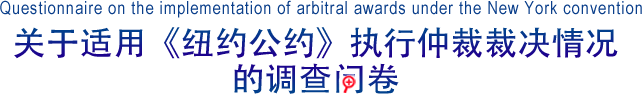
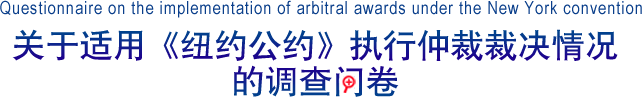
适配ie9

diff --git a/src/style.scss b/src/style.scss
@@ -236,7 +236,7 @@ img {
                   position: absolute;
                   width: 40px;
                   height: 40px;
-                  border: 1px solid #000000;
+                  border: 2px solid #000000;
                   border-radius: 50%;
                   right: -60px;
                   top: 50%;
@@ -287,7 +287,7 @@ img {
                 margin-bottom: 25px;
                 position: relative;
                 &:before{
-                  border: 1px solid #000000;
+                  border: 2px solid #000000;
                   content: " ";
                   position: absolute;
                   width: 30px;
@@ -371,7 +371,7 @@ img {
   .pclogo{
     position: absolute;
     display: block;
-    width: 250PX;
+    width: 273PX;
     margin: 0 0 0 14PX;
     padding: 21PX 0 0 0;
   }
@@ -400,22 +400,23 @@ img {
       flex-direction: row;
       justify-content: center;
       align-items: center;
+      .letter-chn{
+        flex-grow: 1;
+        width: auto;
+        margin: 0 auto;
+        text-align: right;
+        padding-right: 2em;
+        border-right: 1px solid #9fa0a0;
+      }
+      .letter-en{
+        flex-grow: 1;
+        width: auto;
+        margin: 0px auto;
+        text-align: left;
+        padding-left: 2em;
+      }
     }
-    .letter-chn{
-      flex-grow: 1;
-      width: auto;
-      margin: 0 auto;
-      text-align: right;
-      padding-right: 2em;
-      border-right: 1px solid #9fa0a0;
-    }
-    .letter-en{
-      flex-grow: 1;
-      width: auto;
-      margin: 0px auto;
-      text-align: left;
-      padding-left: 2em;
-    }
+
     .letter-en img, .letter-chn img{
       height: 100%;
       width: auto;
@@ -476,7 +477,7 @@ img {
                     &:before{
                       width: 30PX;
                       height: 30PX;
-                      border: 1PX solid #000000;
+                      border: 2PX solid #000000;
                       right: -40PX;
                     }
                     &:after{
@@ -603,6 +604,141 @@ img {
         }
         .btn-pre{
           margin-right: 16PX
+        }
+      }
+    }
+  }
+}
+
+
+.ie9{
+  .clearFloat{
+    clear: both;
+  }
+  .logo{
+    display: none;
+  }
+  .pclogo{
+    position: absolute;
+    display: block;
+    width: 250PX;
+    margin: 0 0 0 14PX;
+    padding: 21PX 0 0 0;
+  }
+  #homePage{
+    display: flex;
+    flex-direction: column;
+    &.hide{
+      display: none;
+    }
+    .logo{
+      position: absolute;
+    }
+    .pageContainer{
+      display: flex;
+      flex-direction: column;
+      justify-content: center;
+      flex-grow: 1;
+      position: absolute;
+      top: 50%;
+      left: 50%;
+      width: 100%;
+      transform: translate(-50%, -50%);
+    }
+    .PageTitle{
+      width: 64.2%;
+      max-width: 642PX;
+      margin: 0PX auto 37PX;
+    }
+    .letters{
+      .letter-chn{
+        width: 50%;
+        float: left;
+        box-sizing: border-box;
+      }
+      .letter-en{
+        width: 50%;
+        float: right;
+        box-sizing: border-box;
+      }
+    }
+  }
+  .page{
+    &.questionPage{
+      &.hide{
+        display: none;
+      }
+      #changeLang{
+        height: 100%;
+        .qustionContainer{
+          position: relative;
+          .qustionOuter{
+            padding-top: 0;
+            padding-left: 15PX;
+            position: absolute;
+            top: 50%;
+            transform: translateY(-50%);
+            .questionItem{
+              padding-bottom: 0;
+            }
+          }
+        }
+      }
+      #changeLang{
+        width: 100%;
+        max-width: 1000PX;
+        margin: 0 auto;
+        height: 100%;
+        &.langChn{
+          font-size: 16PX;
+          .count{
+            font-size: 24PX;
+          }
+        }
+        &.langEn{
+          font-size: 14PX;
+          .chn{
+            display: none;
+          }
+          .count{
+            font-size: 24PX;
+          }
+          .buttons{
+            .btn-pre, .btn-next, .btn-submit{
+              width: 140PX;
+              height: 29PX;
+            }
+          }
+          .mainTitle:before {
+            width: 6PX;
+            height: 13PX;
+            top: 3PX;
+            left: -12PX;
+          }
+        }
+      }
+      .commonBottom{
+        .progressOuter{
+          .progress{
+            left: 4PX;
+            top: 2PX;
+          }
+        }
+      }
+      .buttons{
+        margin-bottom: 50PX;
+        padding-top: 0;
+        margin-right: 137PX;
+        .btn-pre, .btn-next, .btn-submit{
+          width: 117PX;
+          height: 38PX;
+          float: right;
+        }
+        .btn-pre{
+          margin-right: 16PX;
+          background-repeat: no-repeat;
+          background-size: 100% auto;
+          background-image: url("./images/btn-pre.png");
         }
       }
     }

diff --git a/src/index.js b/src/index.js
@@ -7,7 +7,7 @@ import $ from 'jquery';
 
 // ReactDOM.render(<App />, document.getElementById('root'));
 
-const $btnPrev = $('.btn-pre'), $btnNext = $('.btn-next'), $btnSubmit = $('.btn-submit'), $prograssBar=$('.progress-bar');
+const $prograssBar=$('.progress-bar');
 const questionCount = $('.questionItem').length;
 
 
@@ -24,16 +24,16 @@ const calProgress = () => {
     const width = (index + 1) / questionCount * 100;
     $prograssBar.css('width', width + '%');
     if (index === 0) {
-        $btnPrev.hide();
+        $('.btn-pre').hide();
     } else {
-        $btnPrev.show();
+        $('.btn-pre').show();
     }
     if (index + 1 === questionCount) {
-        $btnNext.hide();
-        $btnSubmit.show();
+        $('.btn-next').hide();
+        $('.btn-submit').show();
     } else {
-        $btnNext.show();
-        $btnSubmit.hide();
+        $('.btn-next').show();
+        $('.btn-submit').hide();
     }
 };
 const bindHandler = () => {
@@ -90,6 +90,8 @@ const bindHandler = () => {
         $('#homePage').addClass('hide');
         $('#questionPage').removeClass('hide');
         $('#changeLang').removeClass('langEn').addClass('langChn');
+
+        fixIe9();
         calProgress();
     });
     $(document).on('touchstart click', '.btn-start-en', {}, (e) => {
@@ -100,6 +102,8 @@ const bindHandler = () => {
         $('#questionPage').removeClass('hide');
         $('#changeLang').removeClass('langChn').addClass('langEn');
         $('input, textarea').attr('placeholder', '');
+
+        fixIe9();
         calProgress();
     });
 };
@@ -120,10 +124,27 @@ const IsPC = () => {
     return flag;
 };
 
+const fixIe9 = () => {
+    if (!$("#root").hasClass('ie9')) {
+        return false;
+    }
+    const height = $('#changeLang').height() - $('.commonBottom').outerHeight();
+    $('.qustionContainer').css('height', height + 'px');
+    $('.commonBottom .buttons').html(`
+                        <div class="btn-submit"></div>
+                        <div class="btn-next"></div>
+                        <div class="btn-pre"></div>
+                        <div class="clearFloat"></div>
+    `);
+};
+
 const init = () => {
+    const userAgentInfo = navigator.userAgent;
+    if (userAgentInfo.indexOf('MSIE 9') > 0){
+        $("#root").addClass('ie9');
+    }
     const isPc = IsPC();
     this.isPc = isPc;
-
     const optionArray = [];
     for (let i = 0; i <= 100; i++) {
         optionArray.push(`<option value="${i}">${i}</option>`);

diff --git a/public/index.html b/public/index.html
@@ -101,7 +101,7 @@
       You need to enable JavaScript to run this app.
     </noscript>
     <div id="root" class="pcStyle">
-        <div class="page homePage" id="homePage">
+        <div class="page homePage " id="homePage">
             <div class="logo">
                 <img data-pc="images/logo-pc.png" data-mobile='images/logo.png' alt=""/>
             </div>
@@ -125,6 +125,7 @@
                             <img src='images/btn-start-en.png' alt=""/>
                         </div>
                     </div>
+                    <div class="clearFloat"></div>
                 </div>
             </div>
         </div>
@@ -135,7 +136,7 @@
             <div class="pclogo">
                 <img data-pc="images/logo-pc.png" data-mobile='images/logo.png' alt=""/>
             </div>
-            <div class="outer " id="changeLang">
+            <div class="outer langChn " id="changeLang">
                 <div class="qustionContainer">
                     <div class="qustionOuter">
                         <!--题目开始  yesOrNo单选框-->
@@ -411,6 +412,7 @@
                         <div class="btn-pre"></div>
                         <div class="btn-next"></div>
                         <div class="btn-submit"></div>
+                        <div class="clearFloat"></div>
                     </div>
                     <div class="progressOuter">
                         <div class="progress">
